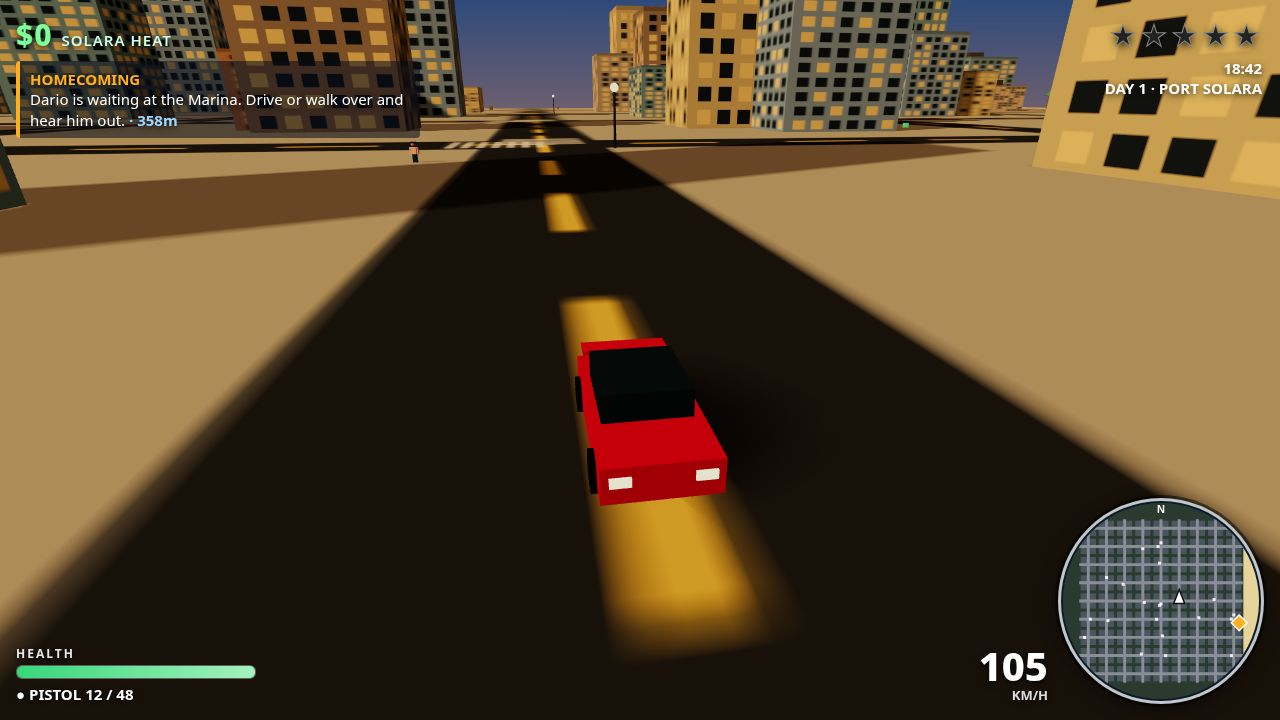
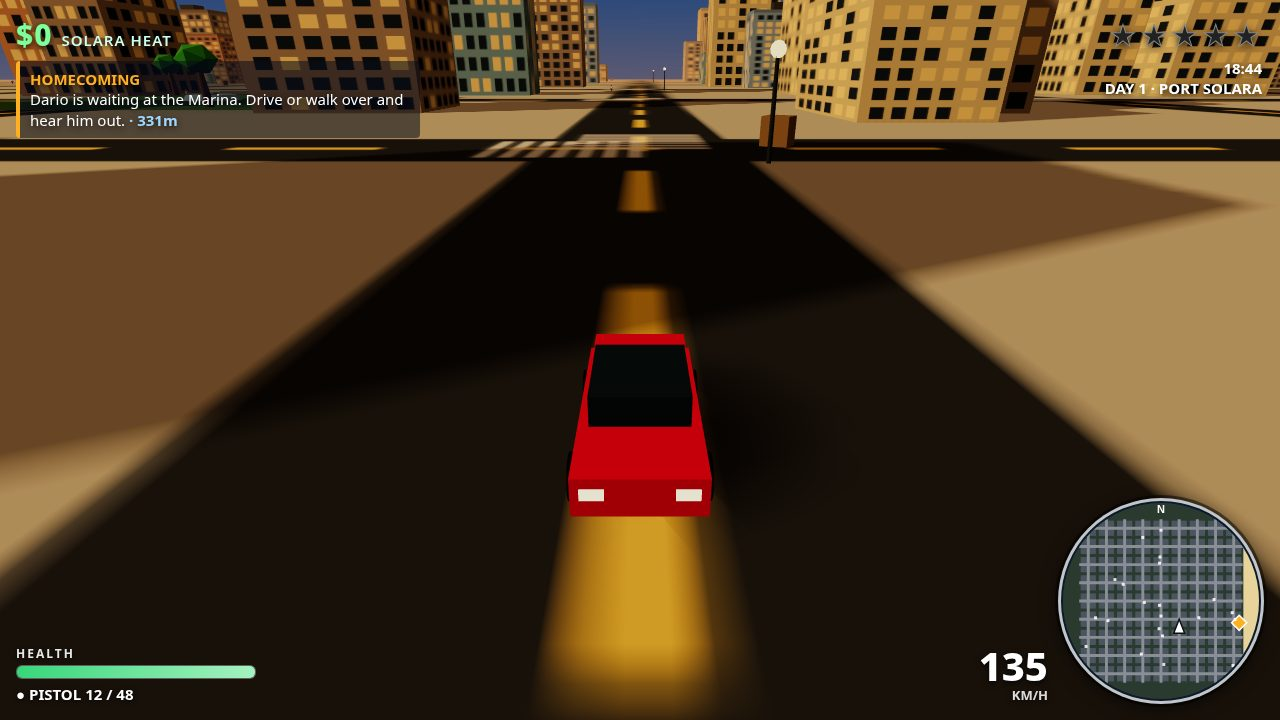
SOLARA HEAT: re-authored under sealed recording, verified playtest + dossier

diff --git a/game/src/main.js b/game/src/main.js
@@ -147,7 +147,8 @@ if (saved && saved.cash !== undefined) {
 G.addHeat = function (amount, reason) {
   G.police.addHeat(amount, G);
   G.hud.updateWanted(G.police.stars);
-  if (reason && G.police.stars > 0) G.hud.setObjectiveDist(0, null);
+  // (No objective-distance touch here: the mission system owns that field,
+  // and stamping it with 0m on every crime hid the real target distance.)
 };
 
 G.busted = function () {

diff --git a/game/src/combat.js b/game/src/combat.js
@@ -69,7 +69,6 @@ export class Combat {
     this.ammo--;
     this.fireCooldown = 0.22;
     this.game.audio.gunshot();
-    // Muzzle flash light (brief).
     // Find the closest hittable thing along the ray.
     const origin = new THREE.Vector3(from.x, from.y, from.z);
     const direction = new THREE.Vector3(dir.x, dir.y, dir.z).normalize();

diff --git a/README.md b/README.md
@@ -1,17 +1,147 @@
-# gta6-01
+# SOLARA HEAT
 
 [![make.fun · gta6-01](https://make.fun/badge/gta6-01.svg)](https://make.fun/bounty/gta6-01?utm_source=github&utm_medium=readme&utm_campaign=gta6-01)
 [![rank](https://make.fun/badge/gta6-01/arya161100/gta6-01/rank.svg)](https://make.fun/bounty/gta6-01/leaderboard?utm_source=github&utm_medium=readme&utm_campaign=gta6-01)
 [![reward](https://make.fun/badge/gta6-01/arya161100/gta6-01/reward.svg)](https://make.fun/bounty/gta6-01?utm_source=github&utm_medium=readme&utm_campaign=gta6-01)
 
-An original open-world crime game for the browser: explore a living city on foot and by car, steal cars, outrun the police wanted system, take on missions, and fight your way through a story — all offline, in plain static files. Built from scratch (three.js vendored under `game/`) by an AI agent for make.fun's "Make GTA 6" bounty.
+**SOLARA HEAT** is an original open-world crime game for the desktop browser,
+built for make.fun's "Make GTA 6" bounty (gta6-01). You play Mara Voss, a
+getaway driver who came home to the fictional coastal city of Port Solara —
+and finds the city has jobs for her. Steal cars, outrun the Port Solara Police
+Department, run five story missions for the fixer Dario, and pull off the big
+score at Solara National Bank.
 
-## Run it
+Everything is original: the city, the characters, the story, the art, the
+sound and the music. Nothing is taken from Rockstar Games or any other
+commercial game. The game runs entirely offline from static files — no
+network request, no build step, no install. three.js is vendored under
+`game/vendor/`.
+
+## What is in the game
+
+- **A living city** — Port Solara is a procedural 9×9 road grid with ~120
+  buildings, a central park plaza with a fountain, a beach and a drifting
+  ocean, palms, streetlights and props, all built deterministically from one
+  seed. Golden-hour lighting, a gradient sunset sky and drifting clouds.
+- **On foot and by car** — third-person walking, sprinting and jumping with
+  a punch, plus arcade driving with steering, handbrake, wheel spin and
+  collision damage.
+- **Traffic and pedestrians** — cars drive the road grid, stop for the car
+  ahead and scatter; 26 pedestrians stroll the sidewalks, chat, and flee
+  from gunfire and speeding cars.
+- **Steal cars** — walk up to any parked or occupied car and press **E**.
+  Jacking an occupied car (or a police cruiser) draws the law's attention.
+- **Wanted system and police** — crimes add heat, heat maps to 0–5 stars.
+  Cop cars spawn, chase and ram you; foot officers run you down and can
+  bust you. Stay out of sight and the heat cools off.
+- **Combat** — a pistol with hitscan shots, tracers, reloads and ammo
+  pickups; melee punches; enemy gunmen who shoot back; health pickups.
+- **Five story missions** ($4,100 total) — *Homecoming*, *Hot Wheels* (steal
+  a gold sports car), *The Courier* (ram a fleeing courier, grab the
+  package), *Heat Wave* (lose the cops, reach the safehouse), and *The Big
+  Score* (five guards, a vault of cash, a boat at the Docks). Each has a
+  beacon, a waypoint ring, dialogue and a cash reward.
+- **HUD and minimap** — cash, wanted stars, health, ammo, speed, a live
+  clock and day counter, mission objectives with distance, prompts, a feed
+  of events, and a circular minimap showing roads, cars, cops and the
+  mission marker.
+- **Sound** — every sound is synthesized live with WebAudio: engine hum,
+  two-tone sirens, gunshots, crashes, pickups, mission jingles, and a
+  bass-and-kick sunset groove that gets tenser as your wanted level rises.
+- **Start and save** — a start screen with the story and controls, a
+  continue option, pause, and localStorage saves (cash, mission progress,
+  position, health, ammo) so a session picks up where it left off.
+- **Busted / Wasted** — get caught or killed and you lose 10% of your cash
+  and wake up at the safehouse.
+
+## Controls
+
+| Key | Action |
+| --- | ------ |
+| **W A S D** / arrows | Move on foot / drive |
+| **Mouse drag** | Look around (camera) |
+| **Mouse wheel** | Zoom camera |
+| **Shift** | Sprint |
+| **Space** | Jump / handbrake |
+| **E** | Steal / enter car (or exit the car) |
+| **Left click** | Shoot (on foot) |
+| **F** | Punch |
+| **R** | Reload |
+| **H** | Horn |
+| **M** | Start the next mission |
+| **P** / **Esc** | Pause |
+
+## How to run
+
+The game is plain static files under `game/`. Any static server works:
 
 ```sh
 node serve.ts
 # then open http://localhost:8080
 ```
+
+Or serve `game/` with any other static server (for example
+`npx serve game` or Python's `http.server`). Open `game/index.html` in a
+desktop browser — Chrome recommended. No network connection is needed; the
+game makes zero network requests.
+
+Requires Node.js 22.18 or later for `serve.ts` and for `main.ts` (the
+submission program). The game itself needs only a modern desktop browser
+with WebGL.
+
+## How to play
+
+1. Press **START ENGINE** on the menu.
+2. Press **M** to start the first job, *Homecoming* — meet Dario at the
+   Marina (follow the gold beacon and the minimap diamond).
+3. Walk to a parked car and press **E** to steal it, then drive with
+   **W A S D**. Press **E** again to get out.
+4. Causing trouble raises your wanted level. At 1 star a cruiser shows up;
+   at 3 stars you are in a real chase. Lose the cops by breaking line of
+   sight, or outrun them.
+5. Finish all five jobs to become the Legend of Solara — then keep free
+   roaming. Your progress saves automatically.
+
+## Project layout
+
+```
+game/
+  index.html            start screen, HUD, screens, import map
+  vendor/three.module.min.js   three.js r160 (vendored)
+  src/
+    main.js             wiring + frame loop, input, camera, enter/exit car
+    city.js             procedural Port Solara (ground, buildings, park, beach)
+    vehicles.js         car meshes, arcade driving, traffic AI
+    player.js           Mara on foot + low-poly character mesh
+    peds.js             pedestrians (walk / idle / flee)
+    police.js           wanted heat, cop cars, foot officers, bust timer
+    combat.js           pistol, enemies, melee, pickups
+    missions.js         five story missions, beacons, rewards
+    hud.js              HUD + circular minimap
+    audio.js            WebAudio synth: engine, sirens, shots, music
+    save.js             localStorage save / load
+    shots.js            deterministic screenshot staging (?shot=...)
+    utils.js            math helpers + seeded RNG
+main.ts                 submission program: copies game/ + screenshots/,
+                        writes dossier.json (makefun/dossier/v1)
+serve.ts                tiny static server for local play (port 8080)
+screenshots/            1-start, 2-play, 3-chase, 4-mission
+vendor/makefun-game.ts  make.fun dossier library (kit copy, unchanged)
+```
+
+## Screenshots
+
+The four screenshots under `screenshots/` are real renders of the game's
+own code, staged deterministically with `?shot=start|play|chase|mission`:
+
+1. `1-start.jpg` — the start menu over a golden-hour vista of downtown.
+2. `2-play.jpg` — Mara driving a red sports car down the main avenue.
+3. `3-chase.jpg` — a three-star wanted chase with PSPD cruisers on her tail.
+4. `4-mission.jpg` — mission 3, *The Courier*, on foot with the beacon lit.
+
+## License
+
+MIT — see [LICENSE](LICENSE).
 
 ---
 
